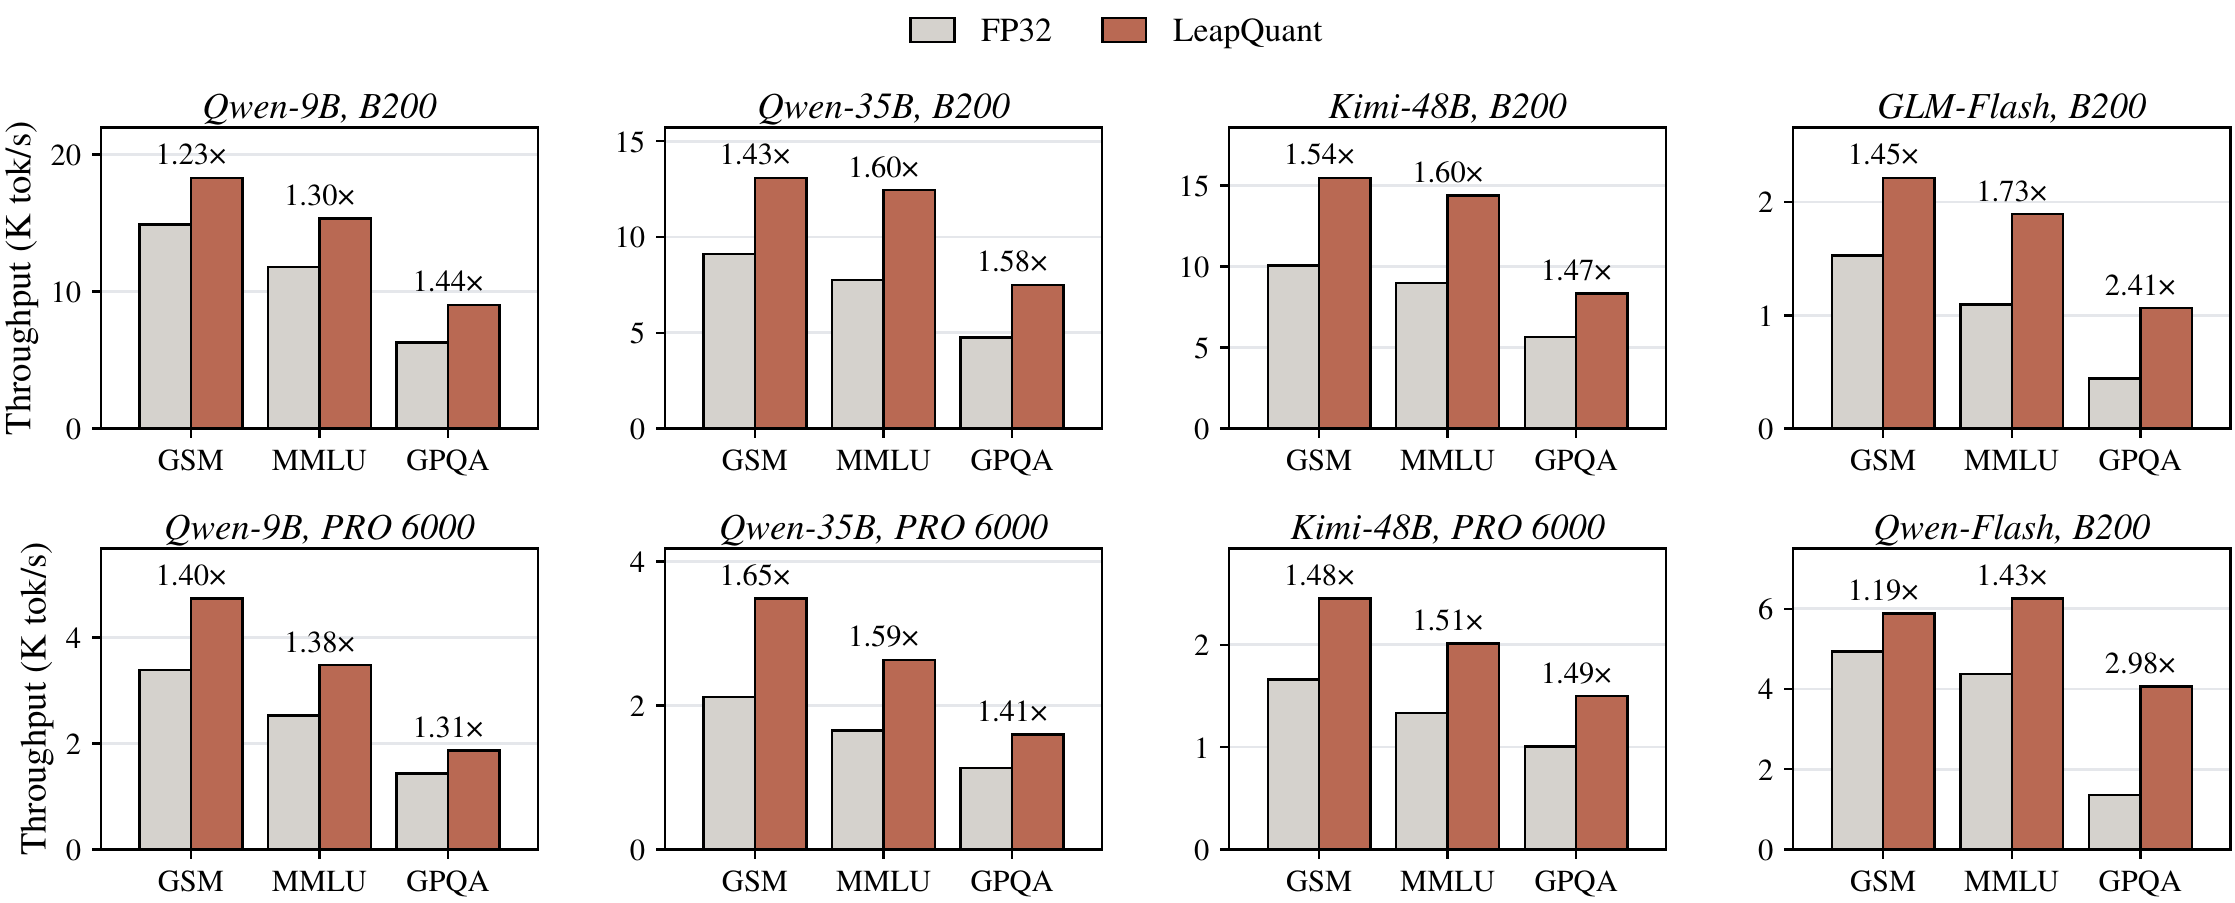
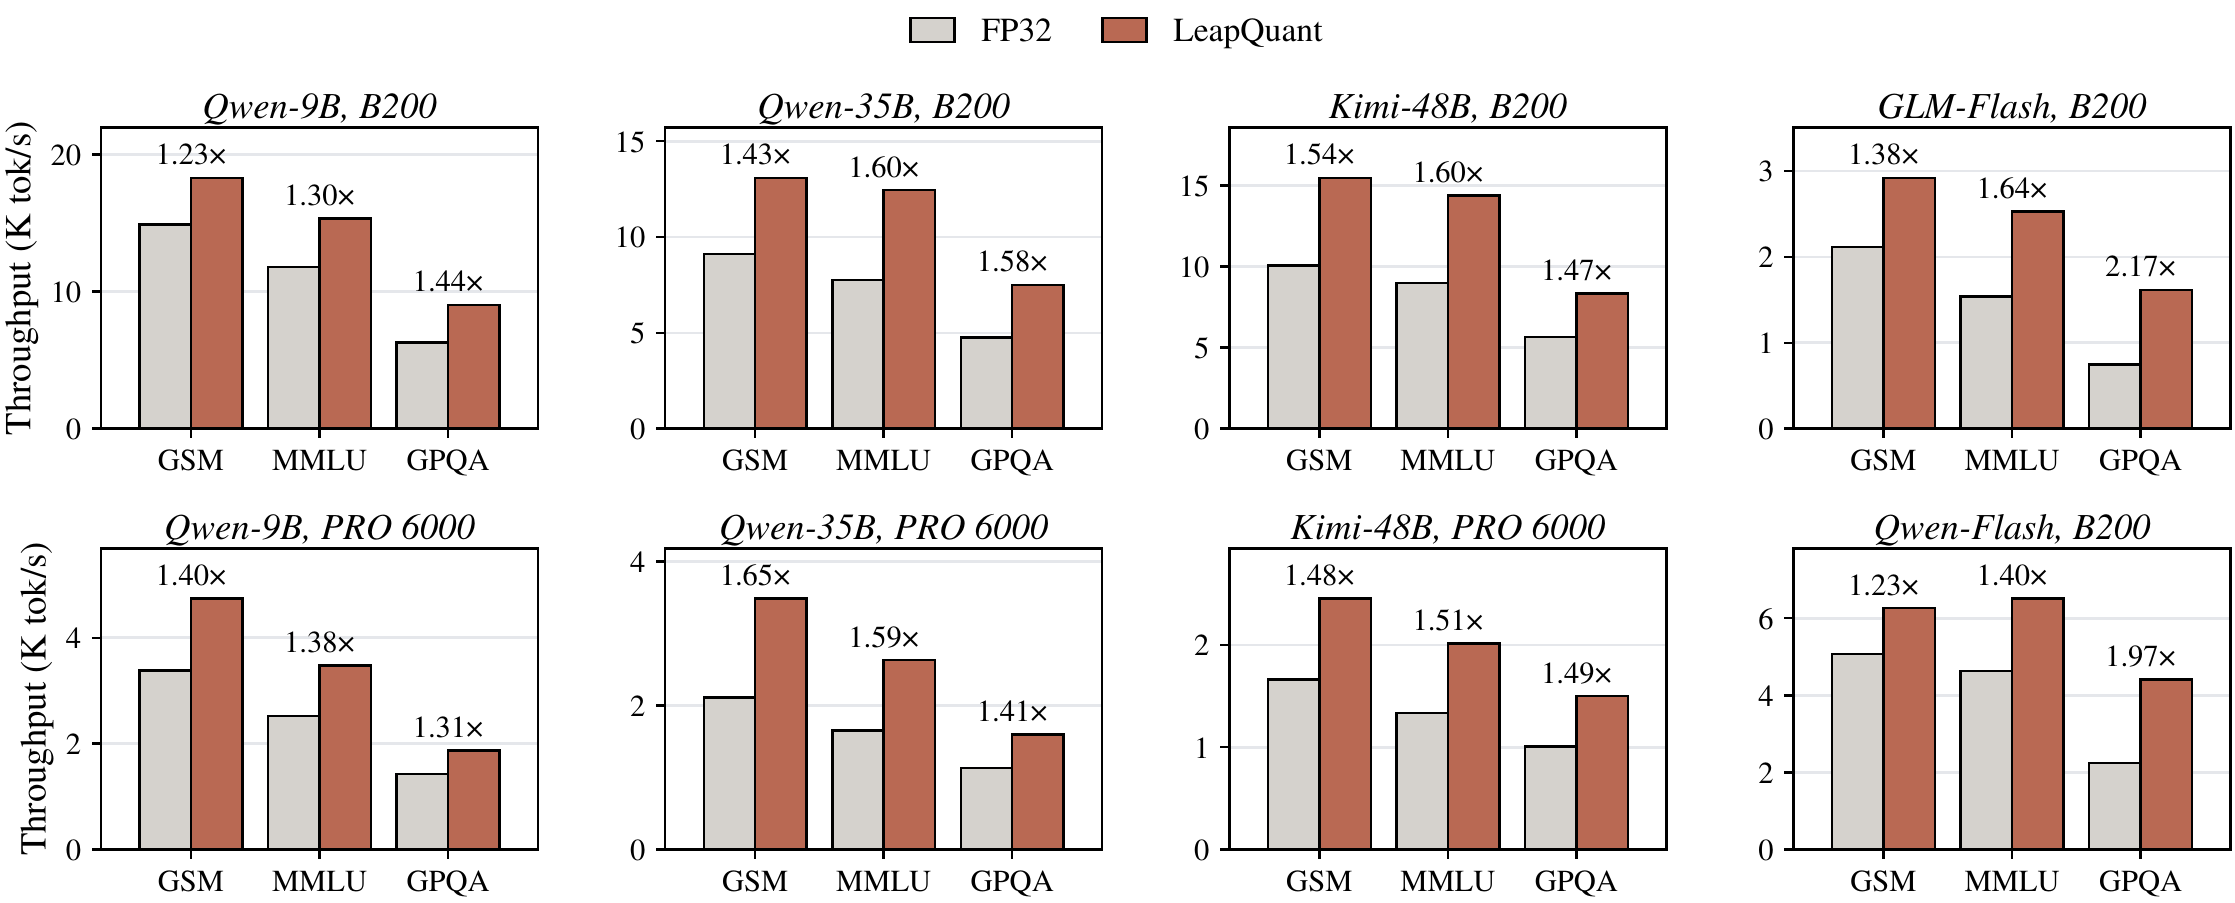
Update results: end-to-end average 1.51x (GLM-5.3-Flash and Qwen3.8-Flash-Next with TP2), new 4-bit results, 8-bit baselines sorted by average
Claude-Session: https://claude.ai/code/session_01DXhCJmJfofT9oWBfBuCvVW

diff --git a/index.html b/index.html
@@ -104,7 +104,7 @@
             <p>
               <b>LeapQuant</b> is a <b>training-free</b> method that quantizes the recurrent state of linear attention to <b>8 bits</b>
               with <b>near-lossless</b> model quality. With accuracy comparable to the FP32 baseline, it achieves average speedups of
-              <b>2.05&ndash;3.70&times;</b> at the kernel level and <b>1.57&times;</b> for end-to-end inference on NVIDIA B200,
+              <b>2.05&ndash;3.70&times;</b> at the kernel level and <b>1.51&times;</b> for end-to-end inference on NVIDIA B200,
               RTX PRO 6000, and RTX 5090 GPUs.
             </p>
           </div>
@@ -260,7 +260,7 @@
             <p>
               Downstream accuracy (%, higher is better, averaged over three seeds) on AIME 2026, BeyondAIME, GPQA-Diamond, and
               LiveCodeBench v6. Naive FP8/INT8 state quantization collapses on Qwen3.5-9B, and even BF16 loses 11.5 points on
-              average, while LeapQuant matches FP32 at 8 and 6 bits and stays within 3.4 points at 4 bits.
+              average, while LeapQuant matches FP32 at 8 and 6 bits and remains far above all baselines at 4 bits.
             </p>
           </div>
         </div>
@@ -276,18 +276,18 @@
             <tr class="baseline-ref"><td class="method">BF16</td><td>72.1</td><td>33.7</td><td>66.2</td><td>49.6</td><td>76.7</td><td>57.2</td><td>90.6</td><td>74.6</td><td>96.8</td><td>78.8</td><td>90.2</td><td>84.0</td><td>72.5</td></tr>
             <tr class="group-row"><td colspan="14">8-bit methods</td></tr>
             <tr class="ours"><td class="method">LeapQuant</td><td><b>87.9</b></td><td><b>64.0</b></td><td><b>81.8</b></td><td><b>64.1</b></td><td><b>91.1</b></td><td><b>83.2</b></td><td><b>91.2</b></td><td><b>87.5</b></td><td><b>99.0</b></td><td><b>85.3</b></td><td><b>91.6</b></td><td><b>85.8</b></td><td><b>84.4</b></td></tr>
-            <tr><td class="method">FP8</td><td>0.0</td><td>0.1</td><td>2.2</td><td>5.9</td><td>69.6</td><td>44.2</td><td>82.0</td><td>53.2</td><td>82.5</td><td>52.8</td><td>76.8</td><td>71.5</td><td>45.1</td></tr>
-            <tr><td class="method">INT8</td><td>3.9</td><td>1.8</td><td>17.2</td><td>10.7</td><td>87.4</td><td>66.8</td><td>90.4</td><td>67.4</td><td>67.5</td><td>41.8</td><td>61.3</td><td>56.0</td><td>47.7</td></tr>
             <tr><td class="method">KVQuant</td><td>70.3</td><td>39.9</td><td>66.8</td><td>55.5</td><td>87.9</td><td>72.8</td><td>90.6</td><td>83.0</td><td>94.7</td><td>74.2</td><td>87.2</td><td>79.9</td><td>75.2</td></tr>
-            <tr><td class="method">QuaRot</td><td>11.4</td><td>7.4</td><td>38.2</td><td>35.6</td><td>91.0</td><td>76.2</td><td>90.9</td><td>78.6</td><td>88.3</td><td>61.0</td><td>84.7</td><td>72.0</td><td>61.3</td></tr>
             <tr><td class="method">TurboQuant</td><td>67.9</td><td>43.2</td><td>62.0</td><td>42.2</td><td>83.8</td><td>67.3</td><td>89.9</td><td>73.8</td><td>95.4</td><td>78.4</td><td>89.9</td><td>84.7</td><td>73.2</td></tr>
+            <tr><td class="method">QuaRot</td><td>11.4</td><td>7.4</td><td>38.2</td><td>35.6</td><td>91.0</td><td>76.2</td><td>90.9</td><td>78.6</td><td>88.3</td><td>61.0</td><td>84.7</td><td>72.0</td><td>61.3</td></tr>
+            <tr><td class="method">INT8</td><td>3.9</td><td>1.8</td><td>17.2</td><td>10.7</td><td>87.4</td><td>66.8</td><td>90.4</td><td>67.4</td><td>67.5</td><td>41.8</td><td>61.3</td><td>56.0</td><td>47.7</td></tr>
+            <tr><td class="method">FP8</td><td>0.0</td><td>0.1</td><td>2.2</td><td>5.9</td><td>69.6</td><td>44.2</td><td>82.0</td><td>53.2</td><td>82.5</td><td>52.8</td><td>76.8</td><td>71.5</td><td>45.1</td></tr>
             <tr class="group-row"><td colspan="14">6-bit methods</td></tr>
             <tr class="ours"><td class="method">LeapQuant</td><td><b>87.9</b></td><td><b>63.6</b></td><td><b>81.0</b></td><td><b>65.4</b></td><td><b>92.9</b></td><td><b>82.7</b></td><td><b>91.2</b></td><td><b>86.3</b></td><td><b>98.8</b></td><td><b>85.8</b></td><td><b>89.9</b></td><td><b>86.8</b></td><td><b>84.4</b></td></tr>
             <tr><td class="method">TurboQuant</td><td>19.3</td><td>7.2</td><td>33.2</td><td>13.0</td><td>88.1</td><td>66.8</td><td>88.0</td><td>66.2</td><td>94.4</td><td>73.1</td><td>88.2</td><td>83.7</td><td>60.1</td></tr>
             <tr><td class="method">MXFP6</td><td>0.0</td><td>0.0</td><td>0.8</td><td>0.5</td><td>71.4</td><td>44.8</td><td>82.7</td><td>53.4</td><td>59.2</td><td>34.6</td><td>63.3</td><td>58.0</td><td>39.1</td></tr>
             <tr><td class="method">NVFP6</td><td>0.0</td><td>0.1</td><td>1.5</td><td>7.6</td><td>39.2</td><td>17.1</td><td>67.8</td><td>36.9</td><td>80.4</td><td>52.9</td><td>73.7</td><td>67.4</td><td>37.1</td></tr>
             <tr class="group-row"><td colspan="14">4-bit methods</td></tr>
-            <tr class="ours"><td class="method">LeapQuant</td><td><b>85.0</b></td><td><b>60.1</b></td><td><b>80.0</b></td><td><b>61.3</b></td><td><b>85.7</b></td><td><b>69.0</b></td><td><b>91.4</b></td><td><b>75.3</b></td><td><b>98.6</b></td><td><b>83.8</b></td><td><b>91.6</b></td><td><b>85.8</b></td><td><b>80.6</b></td></tr>
+            <tr class="ours"><td class="method">LeapQuant</td><td><b>85.0</b></td><td><b>60.1</b></td><td><b>80.0</b></td><td><b>61.3</b></td><td><b>85.0</b></td><td><b>67.6</b></td><td><b>91.6</b></td><td><b>72.8</b></td><td><b>92.5</b></td><td><b>72.6</b></td><td><b>90.6</b></td><td><b>79.9</b></td><td><b>78.3</b></td></tr>
             <tr><td class="method">TurboQuant</td><td>3.5</td><td>1.4</td><td>26.8</td><td>11.5</td><td>59.7</td><td>43.2</td><td>77.9</td><td>49.4</td><td>79.3</td><td>49.8</td><td>74.9</td><td>62.8</td><td>45.0</td></tr>
             <tr><td class="method">MXFP4</td><td>0.0</td><td>0.0</td><td>3.7</td><td>0.3</td><td>25.3</td><td>18.6</td><td>70.9</td><td>29.3</td><td>1.7</td><td>2.8</td><td>25.4</td><td>22.6</td><td>16.7</td></tr>
           </tbody>
@@ -335,7 +335,7 @@
           <h3 class="title is-5">End-to-End Inference</h3>
           <div class="content has-text-justified">
             <p>
-              Integrated into vLLM, LeapQuant achieves an average end-to-end speedup of 1.57&times;.
+              Integrated into vLLM, LeapQuant achieves an average end-to-end speedup of 1.51&times;.
             </p>
           </div>
         </div>
